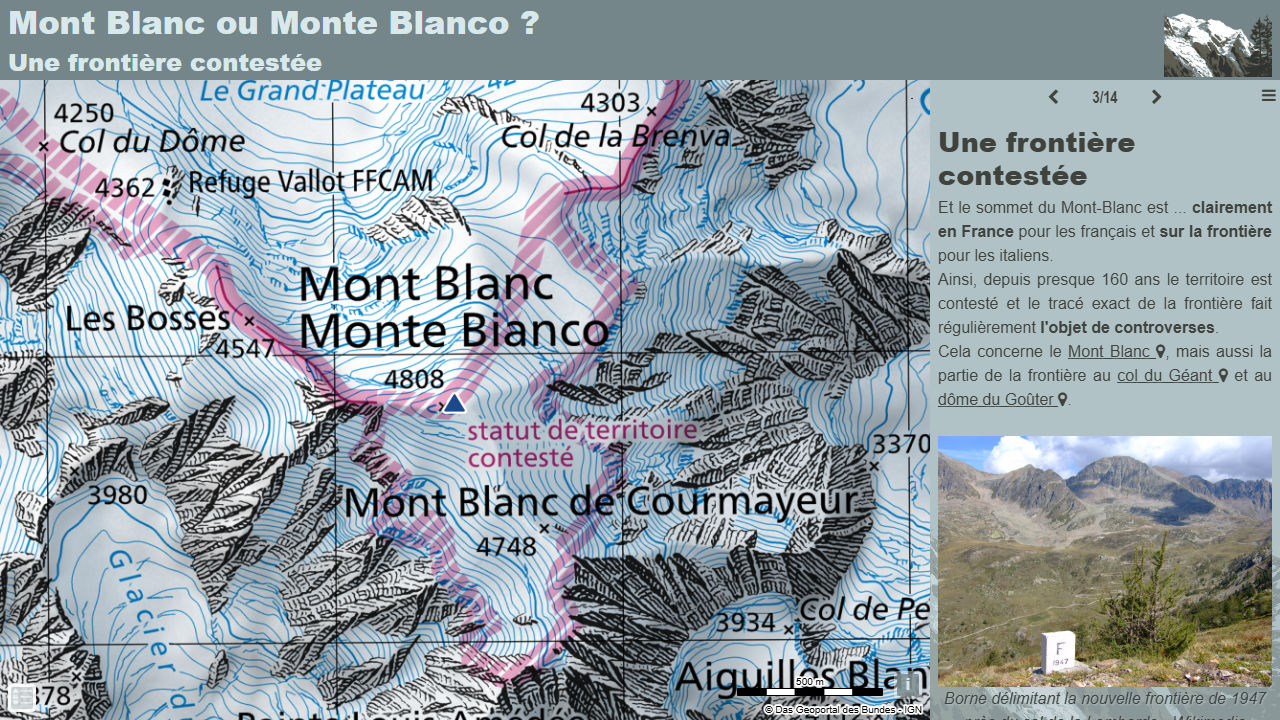
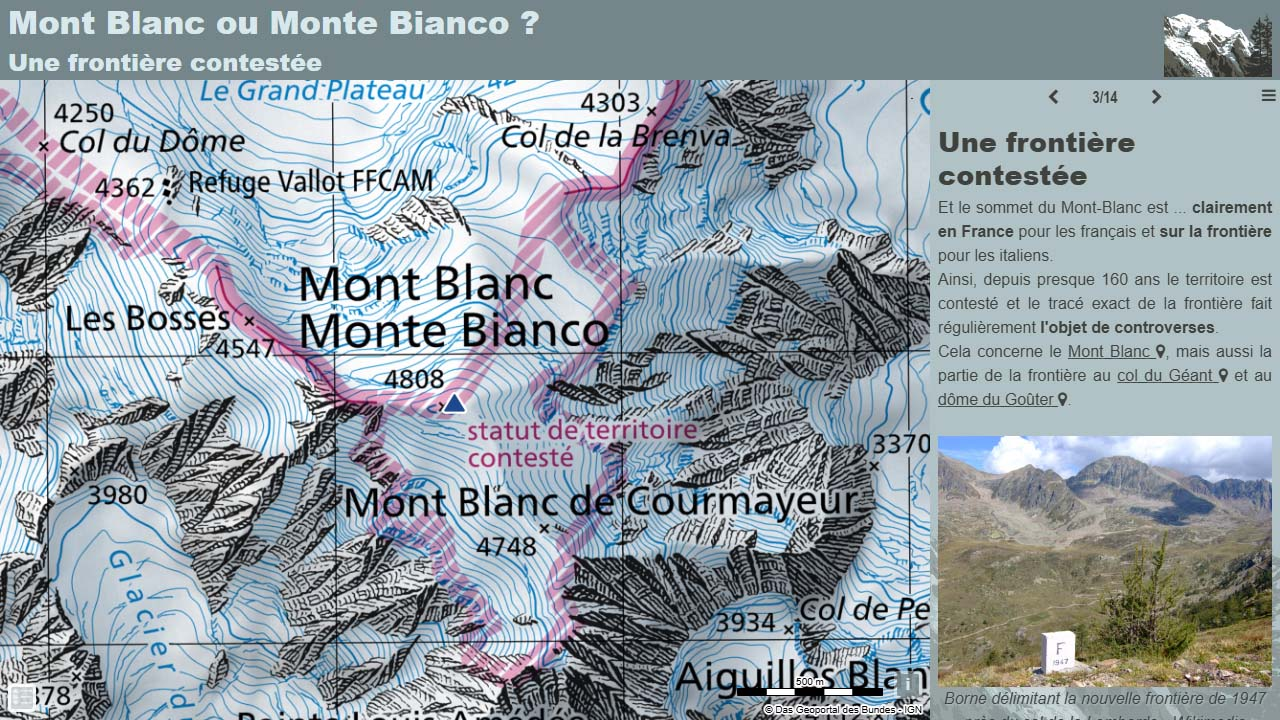
day24

diff --git a/day/day22.md b/day/day22.md
@@ -14,7 +14,7 @@ Un carte orange (et bleue) de la ville d'Orange (parce qu'une orange, c'est oran
 
 {: .center }
 ![](./day22-orange.jpg){:width="550px"}{: .fullscreen }    
-[Voir la carte en ligne](https://macarte.ign.fr/carte/mctfGY/Mont-Blanc-ou-Monte-Blanco){:target="macarte"}
+[Voir la carte en ligne](https://macarte.ign.fr/carte/mctfGY/Mont-Blanc-ou-Monte-Bianco){:target="macarte"}
 
 {: .center }
-[![](https://upload.wikimedia.org/wikipedia/commons/5/5a/X_icon_2.svg){:width="40px"}](https://x.com/jmviglino/status/1859856842379211052) - [![](https://upload.wikimedia.org/wikipedia/commons/d/d5/Mastodon_logotype_%28simple%29_new_hue.svg){:width="40px"}](https://mapstodon.space/deck/@jmviglino/113525621486533444) - [![](https://upload.wikimedia.org/wikipedia/commons/7/7a/Bluesky_Logo.svg){:width="40px"}](https://bsky.app/profile/jmviglino.bsky.social)
+[![](https://upload.wikimedia.org/wikipedia/commons/5/5a/X_icon_2.svg){:width="40px"}](https://x.com/jmviglino/status/1859856842379211052) - [![](https://upload.wikimedia.org/wikipedia/commons/d/d5/Mastodon_logotype_%28simple%29_new_hue.svg){:width="40px"}](https://mapstodon.space/deck/@jmviglino/113525621486533444) - [![](https://upload.wikimedia.org/wikipedia/commons/7/7a/Bluesky_Logo.svg){:width="40px"}](https://bsky.app/profile/did:plc:dhkzuubapdaekmh6twharwqu/post/3lbjjr4tr4k27) - [![](https://upload.wikimedia.org/wikipedia/commons/8/81/LinkedIn_icon.svg){:width="40px"}](https://www.linkedin.com/feed/update/urn:li:activity:7265761244450631680/)

diff --git a/day/day23.md b/day/day23.md
@@ -1,0 +1,21 @@
+---
+layout: default
+permalink: /day23-memory
+title: Day 23 -  Memory
+nav_order: 23
+parent: 30DayMapChallenge 2024
+author: Viglino
+date: 2024-11-23
+image: ./day23-loire.jpg
+---
+# Day 23 -  Memory
+
+Ma mémoire me joue des tours... qu'entend-on par "châteaux de la Loire" ?   
+Une petite carte rapide des châteaux sur la Loire et dans le département de la Loire avec le style "[guide book](https://github.com/Viglino/geoservice-style?tab=readme-ov-file#guide-book)" des tuiles vectorielles de l'IGN. 
+
+{: .center }
+![](./day23-loire.jpg){:width="550px"}{: .fullscreen }    
+[Voir la carte en ligne](https://macarte.ign.fr/carte/EHRkBj/Chateaux-de-la-Loire){:target="macarte"}
+
+{: .center }
+[![](https://upload.wikimedia.org/wikipedia/commons/5/5a/X_icon_2.svg){:width="40px"}](https://x.com/jmviglino/status/1860220991567512033) - [![](https://upload.wikimedia.org/wikipedia/commons/d/d5/Mastodon_logotype_%28simple%29_new_hue.svg){:width="40px"}](https://mapstodon.space/deck/@jmviglino/113531134433249179) - [![](https://upload.wikimedia.org/wikipedia/commons/7/7a/Bluesky_Logo.svg){:width="40px"}](https://bsky.app/profile/did:plc:dhkzuubapdaekmh6twharwqu/post/3lblyfoci4c2h) - [![](https://upload.wikimedia.org/wikipedia/commons/8/81/LinkedIn_icon.svg){:width="40px"}](https://www.linkedin.com/feed/update/urn:li:activity:7265994222435028992/)

diff --git a/day/day24.md b/day/day24.md
@@ -1,0 +1,20 @@
+---
+layout: default
+permalink: /day24-circular
+title: Day 24 - Only circular shapes
+nav_order: 24
+parent: 30DayMapChallenge 2024
+author: Viglino
+date: 2024-11-23
+image: ./day24-grappe.jpg
+---
+# Day 24 - Only circular shapes
+
+Une carte de France sous forme de grappe de raisin.
+
+{: .center }
+![](./day24-grappe.jpg){:width="550px"}{: .fullscreen }    
+[Voir la carte en ligne](https://macarte.ign.fr/carte/szun0H/Population-raisin){:target="macarte"}
+
+{: .center }
+[![](https://upload.wikimedia.org/wikipedia/commons/5/5a/X_icon_2.svg){:width="40px"}](https://x.com/jmviglino/status/1860587154507980951) - [![](https://upload.wikimedia.org/wikipedia/commons/d/d5/Mastodon_logotype_%28simple%29_new_hue.svg){:width="40px"}](https://mapstodon.space/deck/@jmviglino/113536798426889171) - [![](https://upload.wikimedia.org/wikipedia/commons/7/7a/Bluesky_Logo.svg){:width="40px"}](https://bsky.app/profile/did:plc:dhkzuubapdaekmh6twharwqu/post/3lboinznkv22o) - [![](https://upload.wikimedia.org/wikipedia/commons/8/81/LinkedIn_icon.svg){:width="40px"}](https://www.linkedin.com/feed/update/urn:li:activity:7266354851683471360/)
